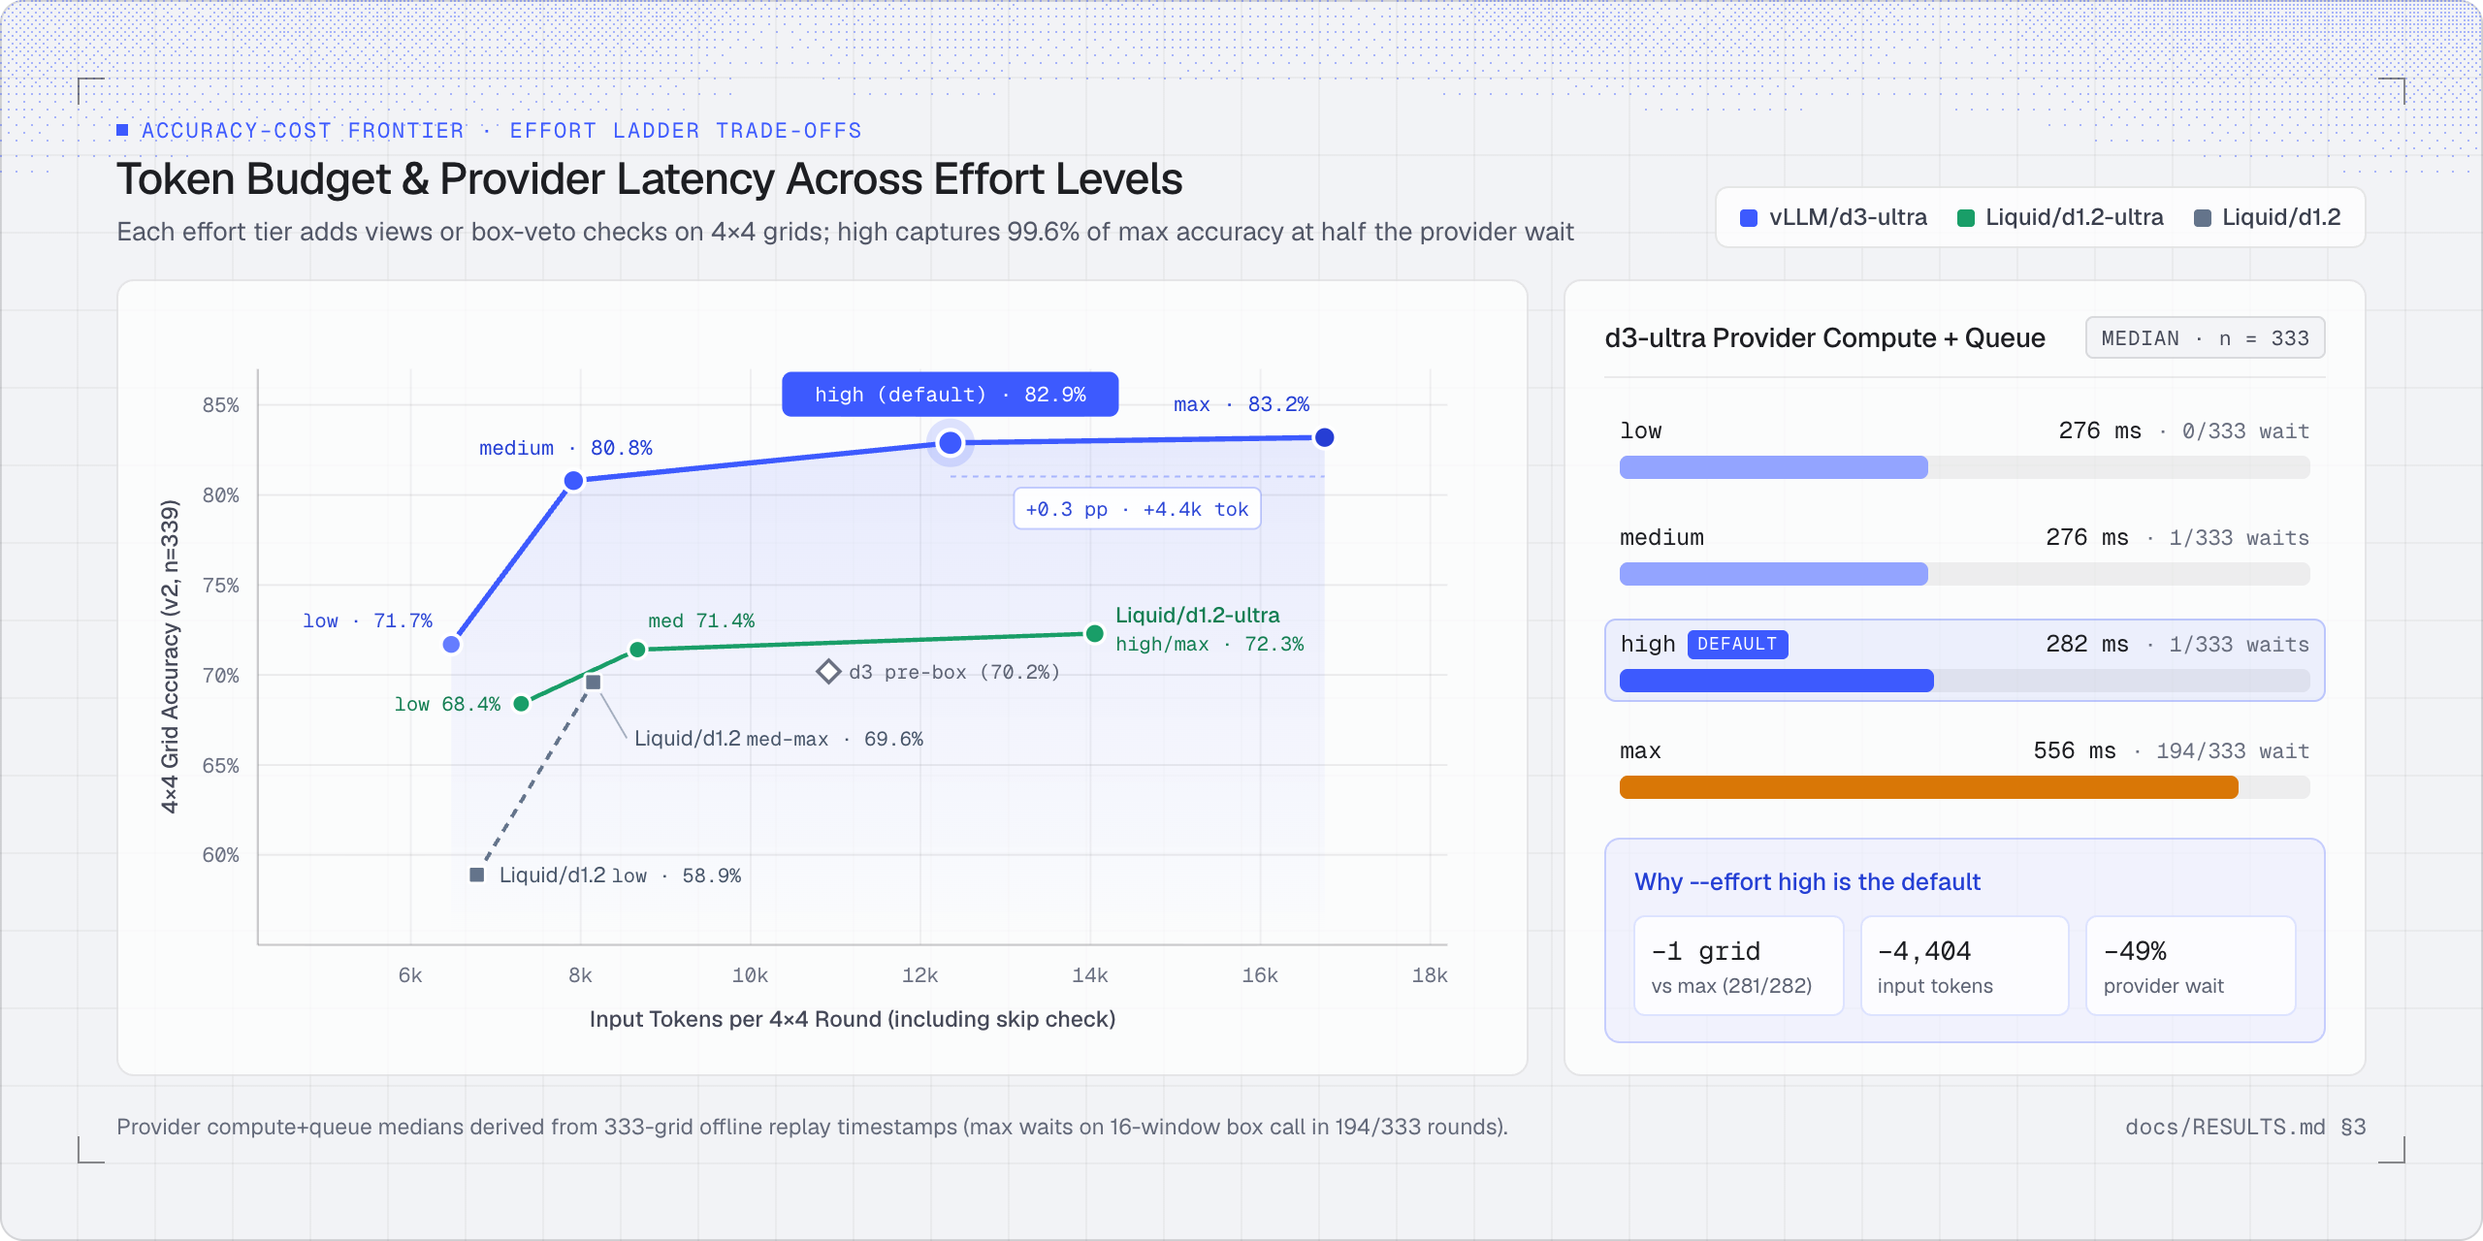
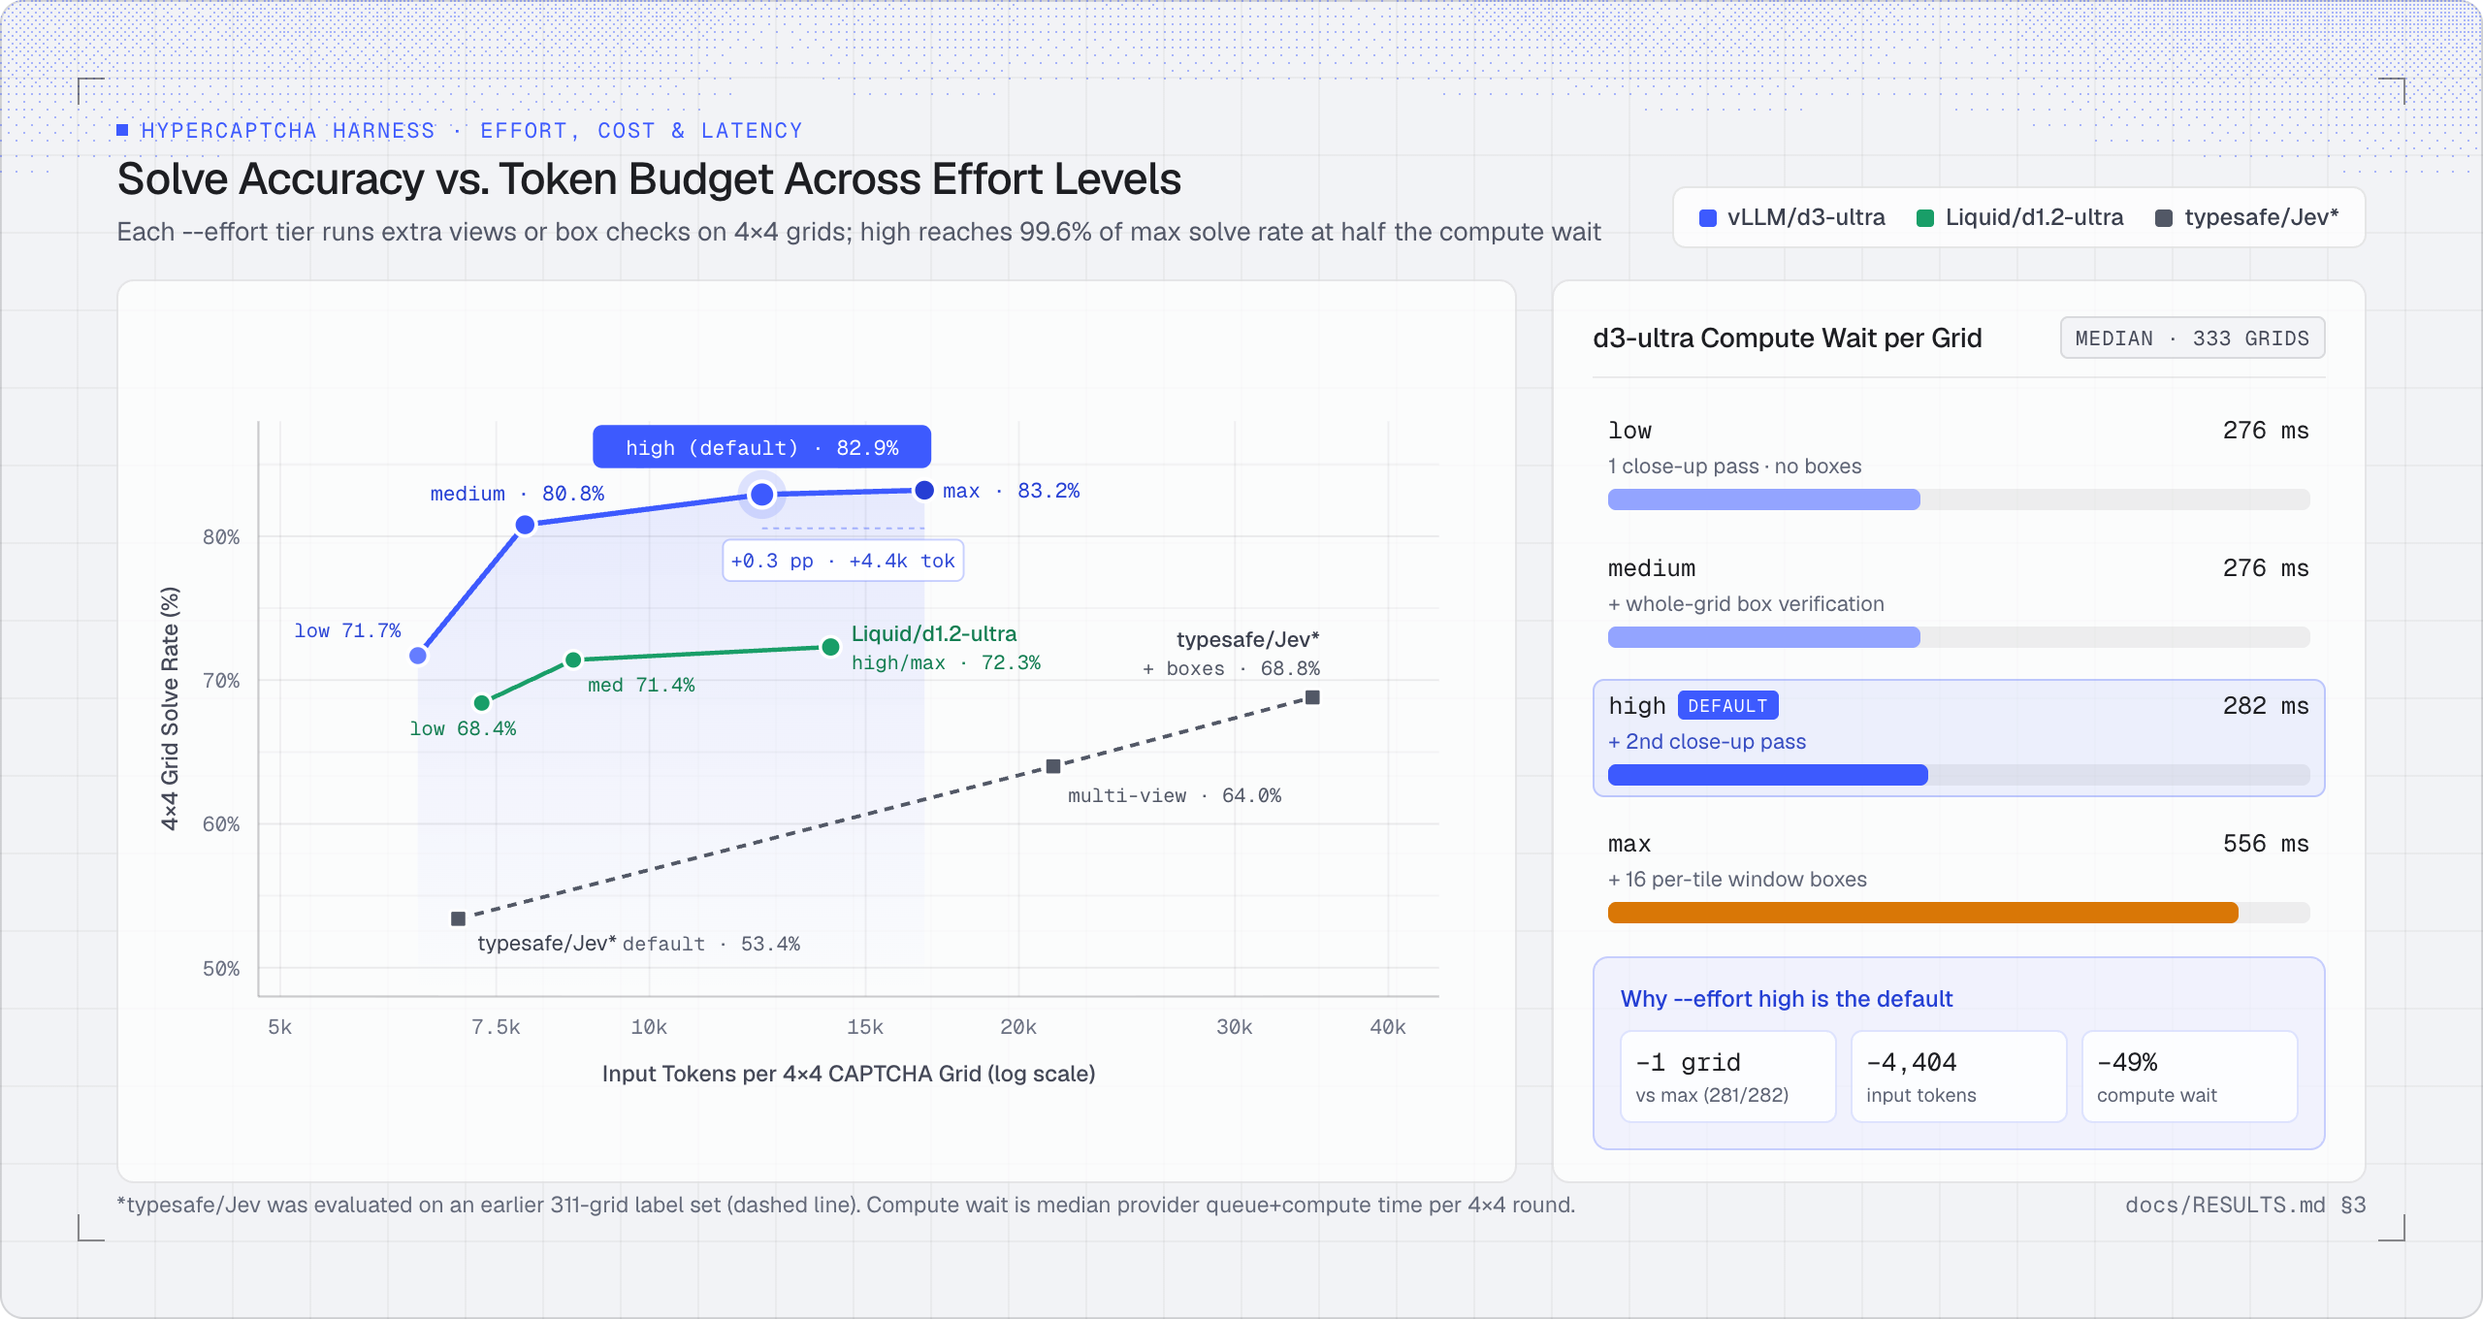
docs: frame README & graphs around HyperCaptcha harness with Jev replacing d1.2

diff --git a/README.md b/README.md
@@ -4,27 +4,35 @@
 
 # HyperCaptcha
 
-HyperCaptcha is an open-source Rust and Python research harness for evaluating **multimodal decision models** on real CAPTCHA widgets (Google reCAPTCHA and hCaptcha) and offline saved grids. It combines a strict localhost lab server, declarative TOML model configs, automated Camoufox runners, and a standalone Python evaluation toolkit (`hypercaptcha-eval`) for labeling, recording, fitting, sweeping, and verifying decision rules.
+**HyperCaptcha** is an open-source Rust and Python harness for solving and benchmarking real CAPTCHA challenges (**Google reCAPTCHA** and **hCaptcha**) with multimodal decision models.
 
-> **Research Scope & Responsible Use:** HyperCaptcha binds strictly to loopback (`127.0.0.1`) and is intended only for empirical research using researcher-owned CAPTCHA keys, official vendor test keys (`--google-test-key` / `--hcaptcha-test-key`), or offline saved grids. Do **not** use this repository against third-party websites without explicit written authorization. See [SECURITY.md](SECURITY.md) · Licensed under [Apache-2.0](LICENSE).
+Instead of sending a raw screenshot to a model once, the HyperCaptcha harness runs a local test page, crops and encodes each challenge grid deterministically, fans out parallel multi-view tile checks and optional bounding-box verification, and scores or submits the resulting tile picks. You can measure how well any supported model solves CAPTCHAs **live in Camoufox** or **offline on saved grids** using the included `hypercaptcha-eval` toolkit.
+
+> **Research Scope & Responsible Use:** HyperCaptcha binds strictly to loopback (`127.0.0.1`) and is built for empirical research using researcher-owned CAPTCHA keys, official vendor test keys (`--google-test-key` / `--hcaptcha-test-key`), or offline saved grids. Do **not** use this repository against third-party websites without explicit written authorization. See [SECURITY.md](SECURITY.md) · Licensed under [Apache-2.0](LICENSE).
 
 ---
 
-## Benchmark Results
+## How Models Perform in HyperCaptcha
 
-Offline 4×4 exact-grid accuracy replayed through the Rust server, comparing **`vLLM/d3-ultra`** across its four `--effort` levels (`low`, `medium`, `high` default, `max`) against **`Liquid/d1.2-ultra`**, **`Liquid/d1.2`**, and earlier `v1`/live **`typesafe/Jev`** reference runs:
+On 4×4 image-grid CAPTCHAs (*"Select all squares with traffic lights"*), a grid counts as **solved** only when every target square is selected and no empty square is clicked.
+
+HyperCaptcha lets you dial how much work the harness asks a model to do on each 4×4 grid via `--effort`:
+- **`low`** — Whole grid + 1 close-up pass + skip check (`6` requests)
+- **`medium`** — Adds whole-grid bounding-box verification to drop false positives (`7` requests)
+- **`high`** *(default)* — Adds a 2nd close-up pass at capture resolution (`11` requests)
+- **`max`** — Adds 16 zoomed per-tile window box checks (`12` requests)
 
 <p align="center">
-  <img src="docs/assets/results-model-comparison.png" alt="vLLM/d3-ultra effort levels vs Liquid/d1.2-ultra, Liquid/d1.2, and typesafe/Jev on offline 4x4 benchmarks and live 50-attempt snapshot" width="100%" />
+  <img src="docs/assets/results-model-comparison.png" alt="How vLLM/d3-ultra across effort levels compares against Liquid/d1.2-ultra and typesafe/Jev inside the HyperCaptcha harness" width="100%" />
 </p>
 
 <p align="center">
-  <img src="docs/assets/results-effort-frontier.png" alt="Accuracy vs input token budget Pareto frontier and vLLM/d3-ultra provider compute latency across low, medium, high, and max effort levels" width="100%" />
+  <img src="docs/assets/results-effort-frontier.png" alt="4x4 CAPTCHA solve accuracy vs input token budget and compute wait across HyperCaptcha effort levels for vLLM/d3-ultra, Liquid/d1.2-ultra, and typesafe/Jev" width="100%" />
 </p>
 
-- **`--effort high` is the default sweet spot for `vLLM/d3-ultra`:** It reaches **`82.9%` (`281/339`)**, within 1 grid of `max` (`83.2%`, `282/339`), while saving `4,404` input tokens per 4×4 round and cutting median provider compute+queue wait from `556 ms` to `282 ms`.
-- **Scope & label caveats:** `v2` (`339` grids) and `v1` (`311` grids) are distinct human label revisions and must not be compared raw across versions. The 4×4 box veto, `--effort` ladder, `Liquid/*` models, and `hCaptcha` live pass rates are offline-only / unmeasured on live CAPTCHA verdicts.
-- **Full empirical analysis:** See [docs/RESULTS.md](docs/RESULTS.md) for dataset genealogy, component ablations, negative findings, live reCAPTCHA runs, and transport tuning, plus the historical Nov 15 live review in [docs/BENCHMARK_REPORT_2026-11-15.md](docs/BENCHMARK_REPORT_2026-11-15.md).
+- **Why `--effort high` is the default:** Inside HyperCaptcha, `vLLM/d3-ultra` at `high` solves **`82.9%` (`281/339`)** of 4×4 test grids — within 1 grid of `max` (`83.2%`, `282/339`) while using **`4,404` fewer input tokens** and cutting median provider compute wait roughly in half (**`282 ms`** vs. **`556 ms`**).
+- **Comparing decision models in the harness:** `Liquid/d1.2-ultra` peaks at **`72.3%`** (`high`/`max`), while `typesafe/Jev` reaches **`53.4%`** in its single-request default or **`68.8%`** with multi-view + box verification on an earlier 311-grid label pass (and **`68.0%`** vs. `d3-ultra`'s **`80.0%`** in a live 50-attempt reCAPTCHA v2 Enterprise run without box checks).
+- **Offline vs. live scope:** The 4×4 box verification, `--effort` tiers, `Liquid/*`, and `hCaptcha` solve rates have been measured offline or on test keys, not yet on live production verdicts. Full methodology, dataset details, additional models (`Liquid/d1.2`), and caveats live in [docs/RESULTS.md](docs/RESULTS.md) and [docs/BENCHMARK_REPORT_2026-11-15.md](docs/BENCHMARK_REPORT_2026-11-15.md).
 
 ---
 
@@ -32,9 +40,9 @@ Offline 4×4 exact-grid accuracy replayed through the Rust server, comparing **`
 
 **Prerequisites:** **Rust 1.88+**, **Python 3.11+**, and **[uv](https://docs.astral.sh/uv/)** (or `pip`). Full installation and CAPTCHA key setup instructions live in [docs/SETUP.md](docs/SETUP.md).
 
-### 1. Try It Locally Without Credentials
+### 1. Try It Locally Without API Keys
 
-Inspect built-in models, validate TOML configs, and boot a credential-free smoke lab using official public test keys:
+Inspect shipped models, validate TOML configs, and start a local smoke lab using official public test keys:
 
 ```sh
 # List built-in models, required env vars, default decision rules, and effort tiers
@@ -43,16 +51,16 @@ cargo run --locked -- models
 # Validate one or more model configs offline
 cargo run --locked -- validate-config models/recaptcha/vllm/d3-ultra.toml
 
-# Start a Google reCAPTCHA v2 test-key lab (defaults to --mode v2 -> http://localhost:8765)
+# Google reCAPTCHA v2 public test key (defaults to --mode v2 -> http://localhost:8765)
 cargo run --locked -- serve --google-test-key
 
-# Or start an hCaptcha test-key lab (defaults to --captcha hcaptcha -> http://hypercaptcha.localhost:8765)
+# hCaptcha public test key (defaults to --captcha hcaptcha -> http://hypercaptcha.localhost:8765)
 cargo run --locked -- serve --hcaptcha-test-key
 ```
 
-### 2. Run Automated Camoufox Trials with a Decision Model
+### 2. Solve CAPTCHAs Automatically in Camoufox
 
-Copy `.env.example` to `.env`, add your localhost CAPTCHA key and model provider key (for example `VLLM_SR_API_KEY`, `LIQUID_API_KEY`, or `TYPESAFE_API_KEY`), and pass `--env-file .env` explicitly (shell env vars always take precedence):
+Copy `.env.example` to `.env`, add your localhost CAPTCHA key and model provider key (such as `VLLM_SR_API_KEY`, `LIQUID_API_KEY`, or `TYPESAFE_API_KEY`), and pass `--env-file .env` explicitly (shell env vars always take precedence):
 
 ```sh
 cp .env.example .env
@@ -64,7 +72,7 @@ cargo run --release --locked -- serve \
   --log reports/vllm-server.jsonl
 ```
 
-`--effort` defaults to `high` (`low`, `medium`, `high`, and `max` are all supported). In a second terminal, fetch the pinned Camoufox browser once and run trials:
+`--effort` defaults to `high` (`low`, `medium`, `high`, and `max` are all supported). In a second terminal, fetch the pinned Camoufox browser once and run automated trials:
 
 ```sh
 uv run --extra browser python -m camoufox fetch
@@ -74,7 +82,7 @@ uv run hypercaptcha-eval summarize reports/vllm-live/trials.jsonl
 
 #### Browser Runner Quick Reference
 
-Both runners use Camoufox (installed via `--extra browser`), query `GET /config` capability flags automatically, and support `vllm`, `liquid`, `jev`, `custom` (`--model-config`), and `openai-chat`:
+Both runners use Camoufox (via `--extra browser`), read `GET /config` capability flags automatically, and work with `vllm`, `liquid`, `jev`, `custom` (`--model-config`), and `openai-chat`:
 
 | Script | Default `--output` | Automated Flags | Special Modes |
 | --- | --- | --- | --- |
@@ -83,7 +91,7 @@ Both runners use Camoufox (installed via `--extra browser`), query `GET /config`
 
 ### 3. Tune & Export Your Own Decision Model Offline
 
-`hypercaptcha-eval` turns captured runs into a fitted, validated TOML config and deterministic parity fixture without touching live CAPTCHA services during optimization:
+`hypercaptcha-eval` turns captured runs into a fitted, validated TOML config and deterministic parity fixture without touching live CAPTCHA services during tuning:
 
 ```sh
 # 1. Deduplicate captured runs into a portable manifest
@@ -116,7 +124,7 @@ See [docs/ADDING_MODELS.md](docs/ADDING_MODELS.md) for the complete `schema_vers
 
 ### Architecture & Repository Layout
 
-Requests flow from the local lab page or Camoufox runner (`scripts/`, `web/`) to the localhost Rust server (`src/server.rs`), which loads declarative `models/**/*.toml` `WireProfile` configs (`src/captcha/mod.rs`, `src/plan.rs`) and executes parallel multi-view + box-veto fan-out (`src/providers.rs`, `src/boxes.rs`). Pixel-exact preprocessing lives in `src/pillow.rs`, positional-image translation and patch-token billing guards live in `src/liquid.rs`, and hCaptcha canvas segmentation lives in `src/captcha/hcaptcha/grid.rs`.
+Challenges flow from the local lab page or Camoufox runner (`scripts/`, `web/`) to the localhost Rust server (`src/server.rs`), which loads declarative `models/**/*.toml` `WireProfile` configs (`src/captcha/mod.rs`, `src/plan.rs`) and runs parallel multi-view + box-verification fan-out (`src/providers.rs`, `src/boxes.rs`). Byte-exact image preprocessing lives in `src/pillow.rs`, positional-image translation and patch-token billing guards live in `src/liquid.rs`, and hCaptcha canvas segmentation lives in `src/captcha/hcaptcha/grid.rs`.
 
 ```text
 src/
@@ -124,7 +132,7 @@ src/
   envfile.rs              # Opt-in `--env-file` parser & precedence overlay
   server.rs               # Localhost-only HTTP server, Host/Origin guards, JSONL logging
   providers.rs            # WireProfile-driven parallel fan-out, log-odds scoring, warming & hedging
-  plan.rs                 # Owned/deserializable 4x4 effort plans, gap rule, box veto rule
+  plan.rs                 # Owned/deserializable 4x4 effort plans, gap rule, box verification rule
   boxes.rs                # 9-ordinal, every-instance, and 16-window box requests + incremental Vote
   pillow.rs               # Byte-exact Pillow bilinear resizer & libjpeg baseline 4:2:0 q90 encoder
   liquid.rs               # Positional-image dialect rewriter & 1.5 tokens/patch billing guard
@@ -158,9 +166,9 @@ uv run --extra dev pytest -v
 
 ### Common Extension Paths
 
-- **Evaluate an unmeasured model on an existing provider:** Run `hypercaptcha serve --provider vllm --model <model-id> --decision-rule average` (or `--record` to capture raw views/boxes for offline fitting) without modifying code.
-- **Integrate a custom decision-model API:** Copy [models/examples/custom-decision-model.toml](models/examples/custom-decision-model.toml), configure `[endpoint]` (`systemone-assets` or `systemone-images` dialect), validate with `hypercaptcha validate-config`, and pass `--model-config <path.toml>` to `serve` or `hypercaptcha-eval record`.
-- **Ship a built-in model & parity fixture:** Add its TOML under `models/<service>/<provider>/<model>.toml`, register it via `include_str!` in `src/captcha/<service>/mod.rs`, generate an image-free/label-free `.json.gz` fixture under `tests/fixtures/` via `hypercaptcha-eval export --fixture`, and verify both `cargo test --locked` and `uv run --extra dev pytest -v`.
+- **Try an unmeasured model on an existing provider:** Run `hypercaptcha serve --provider vllm --model <model-id> --decision-rule average` (or `--record` to log raw views/boxes for offline fitting) without editing code.
+- **Add a custom decision-model API:** Copy [models/examples/custom-decision-model.toml](models/examples/custom-decision-model.toml), configure `[endpoint]` (`systemone-assets` or `systemone-images` dialect), validate with `hypercaptcha validate-config`, and pass `--model-config <path.toml>` to `serve` or `hypercaptcha-eval record`.
+- **Ship a built-in model & parity fixture:** Place its TOML under `models/<service>/<provider>/<model>.toml`, register it via `include_str!` in `src/captcha/<service>/mod.rs`, generate an image-free/label-free `.json.gz` fixture under `tests/fixtures/` via `hypercaptcha-eval export --fixture`, and verify both `cargo test --locked` and `uv run --extra dev pytest -v`.
 - **Add a new wire dialect or CAPTCHA service:** Extend `WireDialect` / `WireProfile` in [src/providers.rs](src/providers.rs) and [src/captcha/mod.rs](src/captcha/mod.rs) (see [docs/ARCHITECTURE.md](docs/ARCHITECTURE.md) and [docs/ADDING_MODELS.md](docs/ADDING_MODELS.md#adding-a-new-wire-dialect-in-rust)).
 - **Data hygiene:** Keep raw captures, labels, logs, and `.env` files in gitignored paths (`/reports/`, `/datasets/`, `/recordings/`); never commit CAPTCHA imagery, human labels, or credentials. See [CONTRIBUTING.md](CONTRIBUTING.md).
 
@@ -171,8 +179,8 @@ uv run --extra dev pytest -v
 | Guide | What It Covers |
 | --- | --- |
 | [docs/SETUP.md](docs/SETUP.md) | Rust/Python/Camoufox installation, Google reCAPTCHA & hCaptcha key setup, `.env` / `--env-file`, localhost security |
-| [docs/RESULTS.md](docs/RESULTS.md) | Full verified empirical report (`v0`/`v1`/`v2` datasets, effort ladders, negative findings, live runs, unmeasured scope) |
+| [docs/RESULTS.md](docs/RESULTS.md) | Full empirical report (datasets, effort ladders, `Liquid/d1.2`, negative findings, live runs, unmeasured scope) |
 | [docs/ADDING_MODELS.md](docs/ADDING_MODELS.md) | Unmeasured models, custom `schema_version = 1` TOML configs, full `hypercaptcha-eval` loop, adding wire dialects |
-| [docs/ARCHITECTURE.md](docs/ARCHITECTURE.md) | Server routes, JSONL schemas, decision & box-veto pipeline, `pillow.rs`, `liquid.rs`, hCaptcha canvas segmentation |
+| [docs/ARCHITECTURE.md](docs/ARCHITECTURE.md) | Server routes, JSONL schemas, decision & box-verification pipeline, `pillow.rs`, `liquid.rs`, hCaptcha segmentation |
 | [docs/BENCHMARK_REPORT_2026-11-15.md](docs/BENCHMARK_REPORT_2026-11-15.md) | Historical November 15, 2026 live 50-attempt `Jev` vs. `d3-ultra` failure review |
 | [CONTRIBUTING.md](CONTRIBUTING.md) · [SECURITY.md](SECURITY.md) · [LICENSE](LICENSE) | Development workflow, parity-fixture rules, responsible-research scope, Apache-2.0 license |
